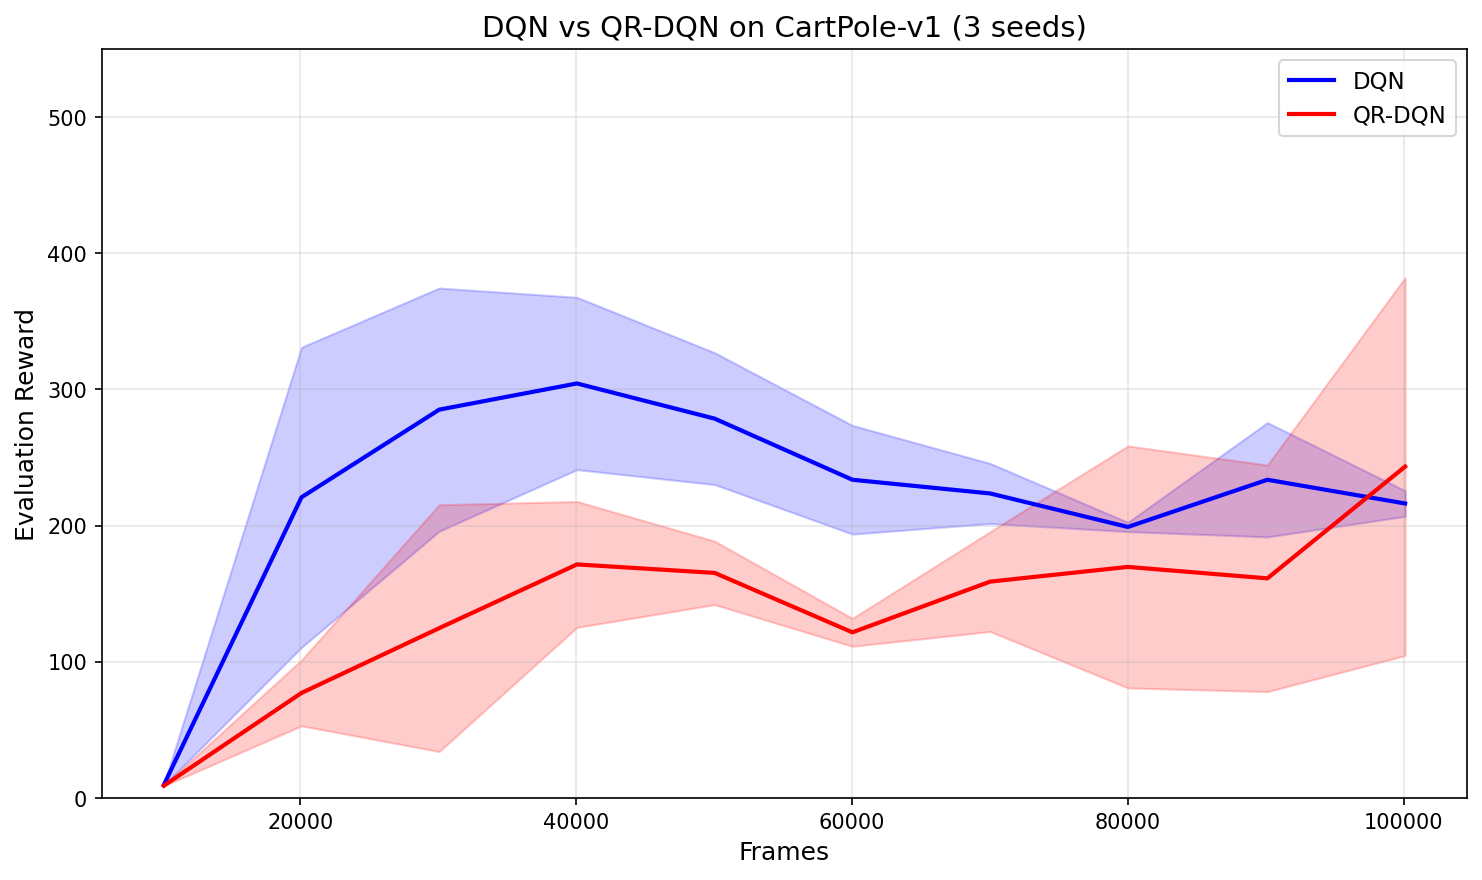
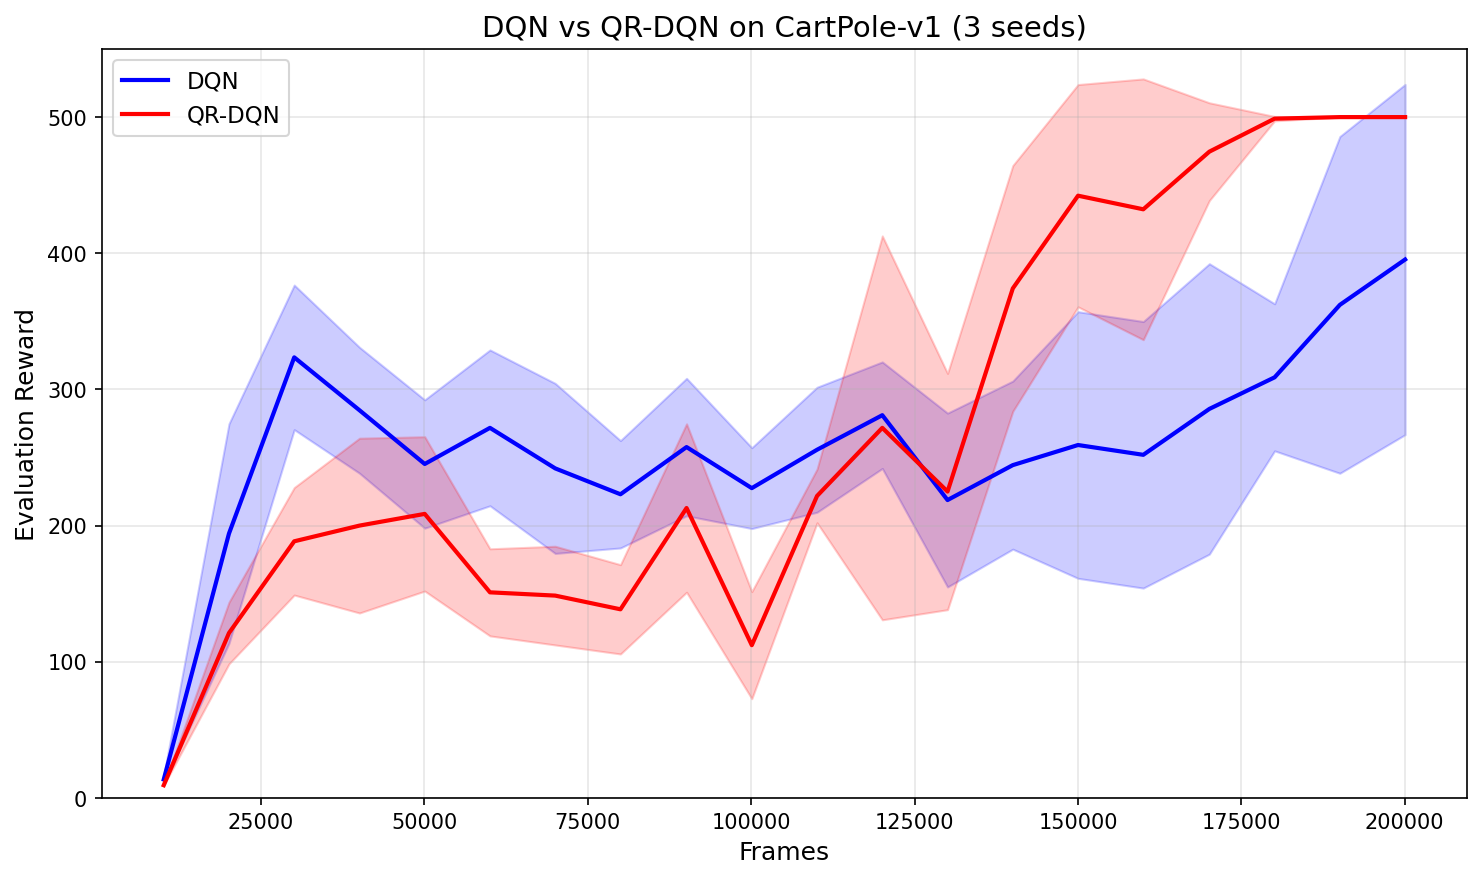
Update DQN vs QR-DQN comparison with 200k frames
Extended training from 100k to 200k frames shows QR-DQN achieving
perfect performance across all seeds:

- DQN: 395.4 ± 128.6 (seeds: 495.6, 213.9, 476.8)
- QR-DQN: 500.0 ± 0.0 (all seeds: 500.0, 500.0, 500.0)

QR-DQN demonstrates more stable convergence to optimal policy.

diff --git a/experiment_dqn_vs_qrdqn.py b/experiment_dqn_vs_qrdqn.py
@@ -357,7 +357,7 @@ def main():
     device = get_available_device()
     tqdm.tqdm.write(f"Using device: {device}")
 
-    total_frames = 100_000
+    total_frames = 200_000
     seeds = [42, 123, 456]
 
     dqn_all_metrics = []
